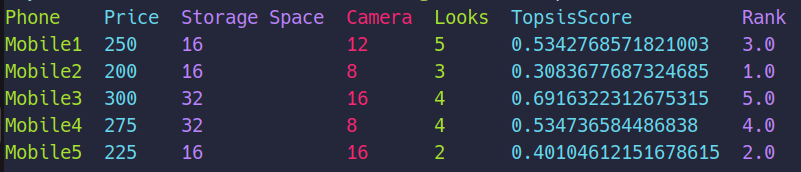
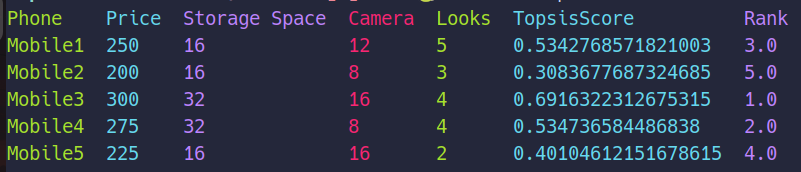
correction of calculating rank

diff --git a/topsis/topsis.py b/topsis/topsis.py
@@ -63,9 +63,12 @@ def cal_topsis_score(df: pd.DataFrame, w: list, i: list, out_file: str):
     performance_score = []
     for j in range(len(s_plus)):
         performance_score.append(s_minus[j] / (s_plus[j] + s_minus[j]))
+    df = df_copy.assign(TopsisScore=performance_score)
+
+    for j in range(len(performance_score)):
+        performance_score[j] = 1 - performance_score[j]
     rank = ss.rankdata(performance_score).tolist()
 
-    df = df_copy.assign(TopsisScore=performance_score)
     df = df.assign(Rank=rank)
 
     df.to_csv(out_file, index=False)
